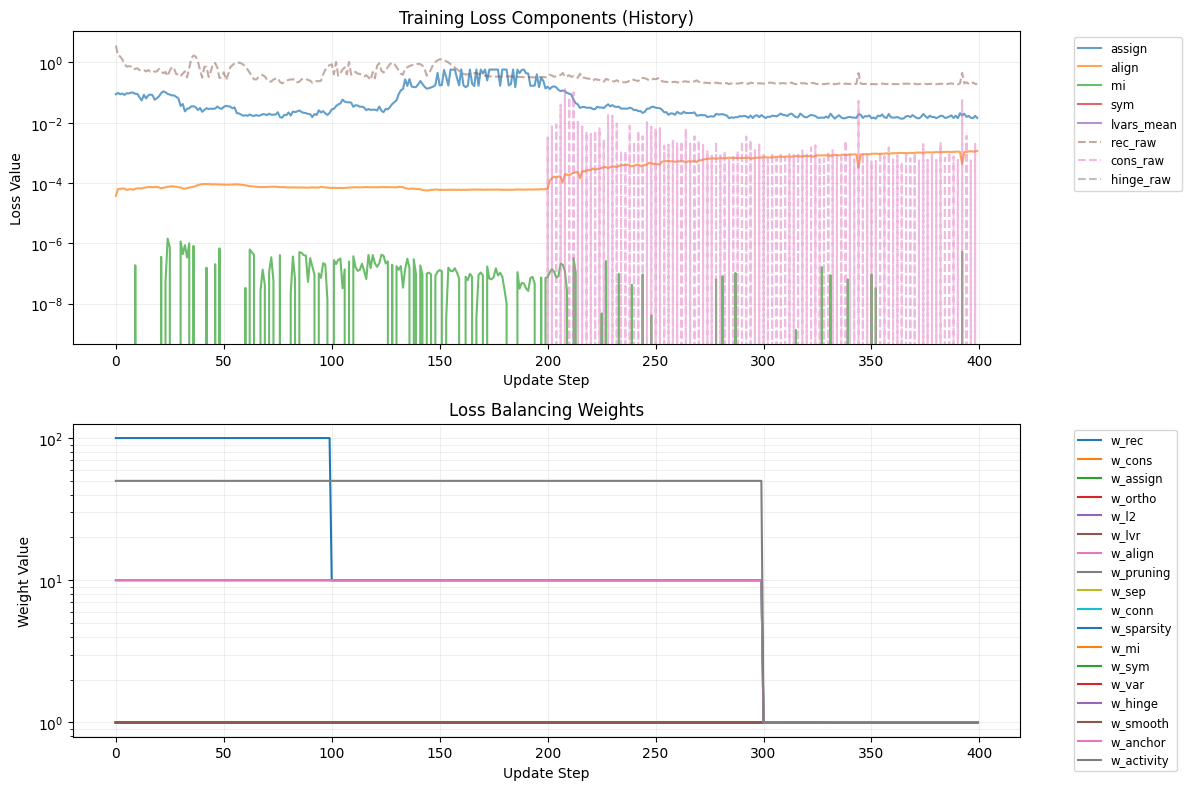
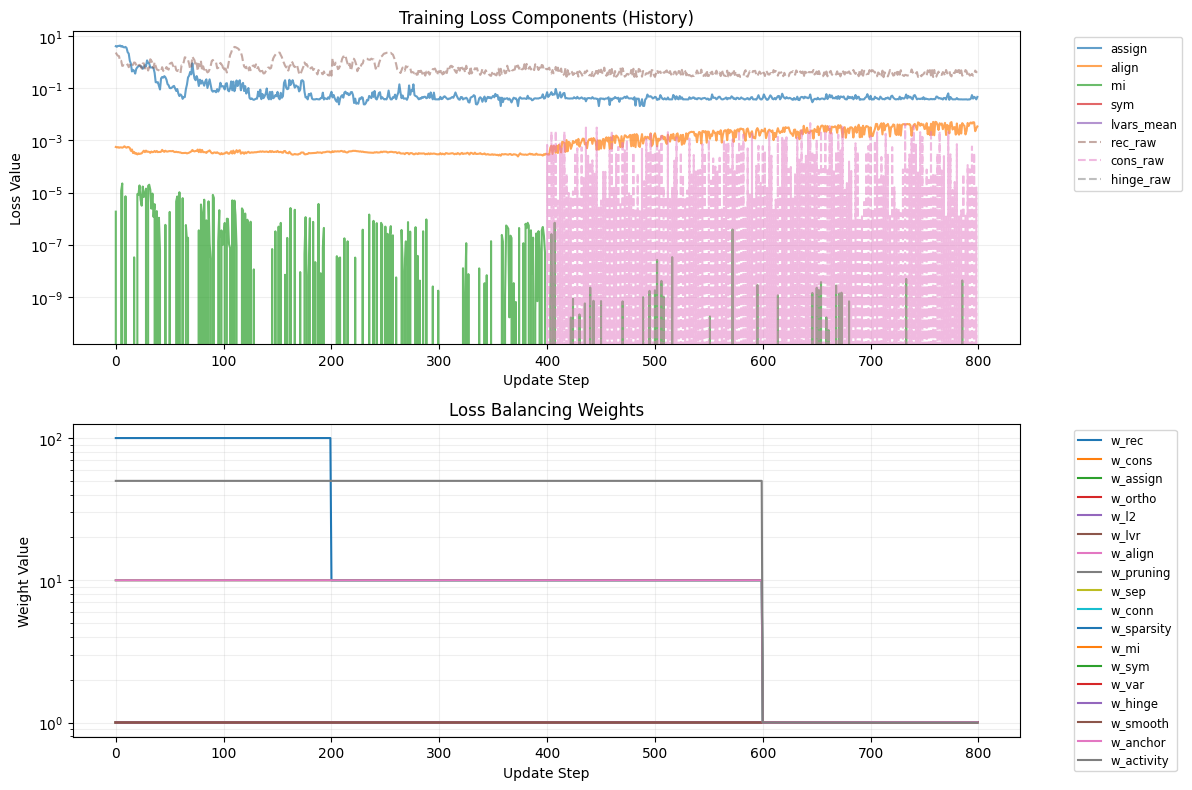
updated

diff --git a/unified_train.py b/unified_train.py
@@ -76,7 +76,7 @@ def main():
         lr=args.lr,
         device=device,
         stats=stats,
-        warmup_epochs=int(args.epochs * 0.5),  # Extended warmup to 50% to focus on reconstruction
+        warmup_epochs=int(args.epochs * 0.25),  # Aligned with stage1_end
         max_epochs=args.epochs,
         sparsity_scheduler=sparsity_scheduler,
         consistency_weight=args.consistency_weight,
@@ -132,7 +132,7 @@ def main():
 
                 # Quick GP check with minimal resources
                 distiller = SymbolicDistiller(populations=200, generations=2)  # Minimal
-                eqs = distiller.distill(z_check, dz_check, args.super_nodes, 4, hamiltonian=args.hamiltonian)
+                eqs = distiller.distill(z_check, dz_check, args.super_nodes, args.latent_dim, hamiltonian=args.hamiltonian)
 
                 # If we found a non-trivial equation with decent potential, we could stop
                 # For now, let's just log it and decide if we want to early exit
@@ -200,17 +200,17 @@ def main():
 
         print("Performing symbolic distillation...")
         if args.hamiltonian:
-            # Small populations and generations for speed
-            populations = 400 if args.quick_symbolic else 800  # Small
-            generations = 8 if args.quick_symbolic else 20  # Small
+            # Increased populations and generations for better discovery
+            populations = 400 if args.quick_symbolic else 2000
+            generations = 10 if args.quick_symbolic else 50
             from hamiltonian_symbolic import HamiltonianSymbolicDistiller
             distiller = HamiltonianSymbolicDistiller(populations=populations, generations=generations,
                                                    perform_coordinate_alignment=not args.quick_symbolic)
             equations = distiller.distill(z_states, dz_states, args.super_nodes, args.latent_dim, model=model)
         else:
-            # Small populations and generations for speed
-            populations = 400 if args.quick_symbolic else 800  # Small
-            generations = 8 if args.quick_symbolic else 20  # Small
+            # Increased populations and generations for better discovery
+            populations = 400 if args.quick_symbolic else 2000
+            generations = 10 if args.quick_symbolic else 50
             from symbolic import SymbolicDistiller
             distiller = SymbolicDistiller(populations=populations, generations=generations)
             equations = distiller.distill(z_states, dz_states, args.super_nodes, args.latent_dim)
@@ -225,7 +225,7 @@ def main():
             symbolic_transformer = distiller.transformer
         else:
             from symbolic import FeatureTransformer
-            symbolic_transformer = FeatureTransformer(args.super_nodes, 4)
+            symbolic_transformer = FeatureTransformer(args.super_nodes, args.latent_dim)
             symbolic_transformer.fit(z_states, dz_states)
 
         # Update trainer with symbolic proxy
@@ -258,7 +258,7 @@ def main():
 
     # Extract z_states for visualization using the same indices
     vis_z_states, _, _ = extract_latent_data(model, vis_sample_dataset, sim.dt, include_hamiltonian=args.hamiltonian)
-    z_states_plot = vis_z_states.reshape(-1, args.super_nodes, 4) if len(vis_z_states) > 0 else np.zeros((vis_sample_size, args.super_nodes, 4))
+    z_states_plot = vis_z_states.reshape(-1, args.super_nodes, args.latent_dim) if len(vis_z_states) > 0 else np.zeros((vis_sample_size, args.super_nodes, args.latent_dim))
 
     # NEW: Generate symbolic predictions if symbolic equations exist
     symbolic_predictions = None

diff --git a/balanced_features.py b/balanced_features.py
@@ -432,13 +432,29 @@ class BalancedFeatureTransformer:
                 jd[i*self.latent_dim : i*self.latent_dim+2] = diff / d
                 jd[j*self.latent_dim : j*self.latent_dim+2] = -diff / d
                 
-                # d, 1/(d+0.1), 1/(d^2+0.1), exp(-d), screened, log
+                # 1. Basic distance and inverse distance
+                # d
                 jac_list.append(jd.reshape(1, -1))
+                # 1.0 / (d + 0.1)
                 jac_list.append((-1.0 / (d + 0.1)**2 * jd).reshape(1, -1))
-                jac_list.append((-2.0 * d / (d**2 + 0.1)**2 * jd).reshape(1, -1))
+                
+                # 2. Spectrum of power laws: 1.0 / (d**n + 0.1)
+                for n in [2, 3, 4, 6, 8, 10, 12]:
+                    # d/dz [1 / (d^n + 0.1)] = -1 / (d^n + 0.1)^2 * n * d^(n-1) * d(d)/dz
+                    j_pow = (-n * d**(n-1) / (d**n + 0.1)**2 * jd).reshape(1, -1)
+                    jac_list.append(j_pow)
+                    
+                # 3. Short-range interaction terms
+                # np.exp(-d)
                 jac_list.append((-np.exp(-d) * jd).reshape(1, -1))
-                jac_list.append(((-np.exp(-d)/(d + 0.1) - np.exp(-d)/(d + 0.1)**2) * jd).reshape(1, -1))
-                jac_list.append((1.0 / (d + 1.0) * jd).reshape(1, -1))
+                # np.exp(-d) / (d + 0.1)
+                # d/dz [e^-d / (d+0.1)] = [(-e^-d)(d+0.1) - (e^-d)(1)] / (d+0.1)^2 * d(d)/dz
+                j_screened = ((-np.exp(-d)*(d + 0.1) - np.exp(-d)) / (d + 0.1)**2 * jd).reshape(1, -1)
+                jac_list.append(j_screened)
+                
+                # 4. Logarithmic interactions
+                # np.log(d + 0.1)
+                jac_list.append((1.0 / (d + 0.1) * jd).reshape(1, -1))
 
         X_base_jac = np.vstack(jac_list)
         

diff --git a/engine.py b/engine.py
@@ -384,7 +384,7 @@ class Trainer:
 
         # Significantly increase spatial and connectivity loss multipliers by 10x
         if hasattr(self.model.encoder.pooling, 'temporal_consistency_weight'):
-            self.model.encoder.pooling.temporal_consistency_weight = 50.0 # Increased from 20.0
+            self.model.encoder.pooling.temporal_consistency_weight = 5.0 # Reduced from 50.0 to allow discovery
 
         # Symbolic-in-the-loop
         self.symbolic_proxy = None
@@ -430,11 +430,11 @@ class Trainer:
             {'params': [self.model.log_vars], 'lr': 1e-1}, # Increased from 1e-2
         ]
         if h_net_params:
-            param_groups.append({'params': h_net_params, 'weight_decay': 1e-2}) # Increased from 1e-3
+            param_groups.append({'params': h_net_params, 'weight_decay': 1e-5}) # Reduced from 1e-2 to allow complexity
         if assign_mlp_params:
-            param_groups.append({'params': assign_mlp_params, 'weight_decay': 1e-2}) # Penalize rapid assignment changes
+            param_groups.append({'params': assign_mlp_params, 'weight_decay': 1e-3}) # Reduced from 1e-2
         if output_layer_params:
-            param_groups.append({'params': output_layer_params, 'weight_decay': 1e-2}) # Prevent high-frequency latent oscillations
+            param_groups.append({'params': output_layer_params, 'weight_decay': 1e-3}) # Reduced from 1e-2
 
         self.optimizer = optim.Adam(param_groups, lr=lr)
         self.criterion = torch.nn.MSELoss().to(device)

diff --git a/model.py b/model.py
@@ -667,16 +667,13 @@ class DiscoveryEngineModel(nn.Module):
         eps = 1e-3 if is_mps else 0.0
 
         if self.training:
-            # Looser tolerances during training for efficiency
-            rtol = 1e-1 + eps
-            atol = 1e-2 + eps
-            # For training, use a larger step size for rk4 to speed up
-            step_size = 0.05 
+            # Tighter step size for better accuracy with LJ potential
+            step_size = 0.002
         else:
             # Tighter tolerances during evaluation for accuracy
             rtol = 1e-3 + eps
             atol = 1e-5 + eps
-            step_size = 0.01
+            step_size = 0.0005
 
         method = 'rk4'
         options = {'step_size': step_size}
